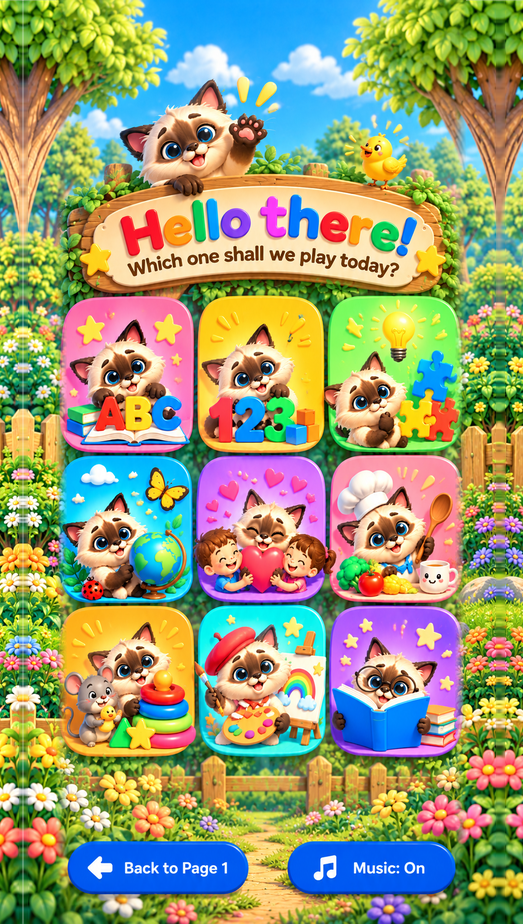
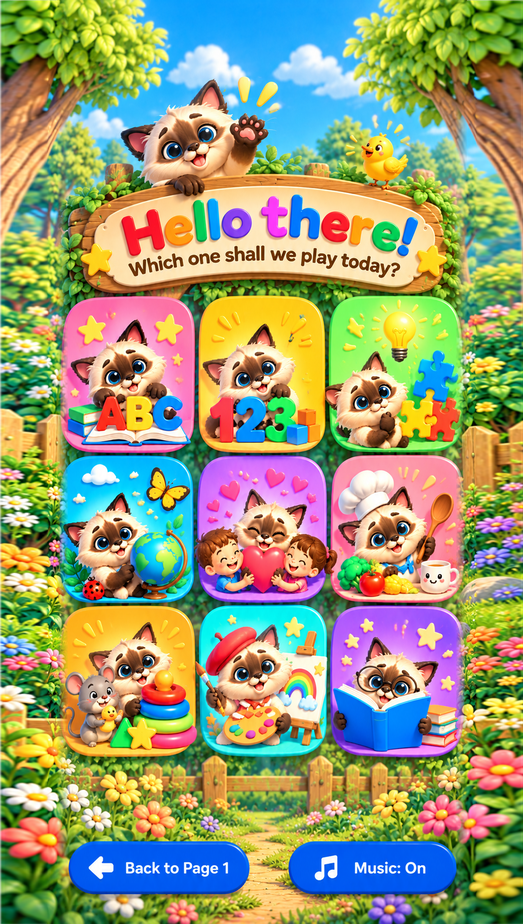
fix mobile layout view

diff --git a/page2.html b/page2.html
@@ -149,7 +149,7 @@
 <body>
   <main class="page" id="page2-top">
     <figure class="artboard" aria-label="Afri's nine learning panels">
-      <picture><source media="(pointer: coarse) and (orientation: portrait) and (max-height: 1000px)" srcset="page2-mobile-portrait-full.png"><source media="(pointer: coarse) and (orientation: landscape) and (max-height: 600px)" srcset="page2-mobile-landscape-full.png"><source media="(max-width: 600px) and (orientation: portrait)" srcset="page2-mobile-portrait-full.png"><source media="(max-width: 1023px) and (min-aspect-ratio: 7 / 4) and (orientation: landscape)" srcset="page2-mobile-landscape-full.png"><source media="(min-width: 768px) and (max-width: 1239px) and (min-height: 900px) and (orientation: portrait)" srcset="page2-tablet-portrait.png"><source media="(min-width: 768px) and (max-width: 1239px) and (min-height: 600px) and (max-aspect-ratio: 7 / 4) and (orientation: landscape)" srcset="page2-tablet-landscape.png"><source media="(min-width: 1240px) and (orientation: landscape)" srcset="page2-laptop.png"><img src="Afri%209%20Panels.jpg" alt="Afri waves beside the greeting, Hello there! Which one shall we play today? Below are nine panels: ABC, numbers, puzzles, exploring the world, kindness, cooking, shapes, art, and reading."></picture>
+      <picture><source media="(pointer: coarse) and (orientation: portrait) and (max-height: 1000px)" srcset="page2-mobile-portrait-full.png?v=20261024-edge-fix2"><source media="(pointer: coarse) and (orientation: landscape) and (max-height: 600px)" srcset="page2-mobile-landscape-full.png?v=20261024-edge-fix2"><source media="(max-width: 600px) and (orientation: portrait)" srcset="page2-mobile-portrait-full.png?v=20261024-edge-fix2"><source media="(max-width: 1023px) and (min-aspect-ratio: 7 / 4) and (orientation: landscape)" srcset="page2-mobile-landscape-full.png?v=20261024-edge-fix2"><source media="(min-width: 768px) and (max-width: 1239px) and (min-height: 900px) and (orientation: portrait)" srcset="page2-tablet-portrait.png"><source media="(min-width: 768px) and (max-width: 1239px) and (min-height: 600px) and (max-aspect-ratio: 7 / 4) and (orientation: landscape)" srcset="page2-tablet-landscape.png"><source media="(min-width: 1240px) and (orientation: landscape)" srcset="page2-laptop.png"><img src="Afri%209%20Panels.jpg" alt="Afri waves beside the greeting, Hello there! Which one shall we play today? Below are nine panels: ABC, numbers, puzzles, exploring the world, kindness, cooking, shapes, art, and reading."></picture>
       <a class="panel-link" style="--x-wide:6%;--y-wide:24.4%;--w-wide:29.4%;--h-wide:22.7%;--x-tall:2.2%;--y-tall:31.4%;--w-tall:32.2%;--h-tall:17.6%;--x-portrait:1.2%;--y-portrait:32.2%;--w-portrait:32%;--h-portrait:17%" href="early-literacy.html" aria-label="Open Early Literacy"></a>
       <a class="panel-link" style="--x-wide:36.2%;--y-wide:24.4%;--w-wide:29%;--h-wide:22.7%;--x-tall:35.2%;--y-tall:31.4%;--w-tall:31.6%;--h-tall:17.6%;--x-portrait:34.7%;--y-portrait:32.2%;--w-portrait:31%;--h-portrait:17%" href="early-math.html" aria-label="Open Early Math"></a>
       <a class="panel-link" style="--x-wide:65.5%;--y-wide:24.4%;--w-wide:30.2%;--h-wide:22.7%;--x-tall:66.4%;--y-tall:31.4%;--w-tall:32%;--h-tall:17.6%;--x-portrait:66.5%;--y-portrait:32.2%;--w-portrait:31.5%;--h-portrait:17%" href="thinking-skills.html" aria-label="Open Thinking Skills"></a>

diff --git a/index.html b/index.html
@@ -97,7 +97,7 @@
   <main class="cover" id="cover" aria-label="Preschool Fun-packed Book cover">
     <picture>
       <source media="(pointer: coarse) and (orientation: landscape) and (max-height: 600px)" srcset="page1-mobile-landscape-full.png">
-      <source media="(max-width: 600px) and (orientation: portrait)" srcset="page1-mobile-portrait-full.png">
+      <source media="(max-width: 600px) and (orientation: portrait)" srcset="page1-mobile-portrait-full.png?v=20261024-edge-fix2">
       <source media="(max-width: 1100px) and (min-aspect-ratio: 7 / 4) and (orientation: landscape)" srcset="page1-mobile-landscape-full.png">
       <source media="(min-width: 601px) and (max-width: 1100px) and (orientation: portrait)" srcset="page1-tablet-portrait.png">
       <source media="(min-width: 701px) and (max-width: 1100px) and (min-height: 601px) and (orientation: landscape)" srcset="page1-tablet-landscape-4x3.png">
